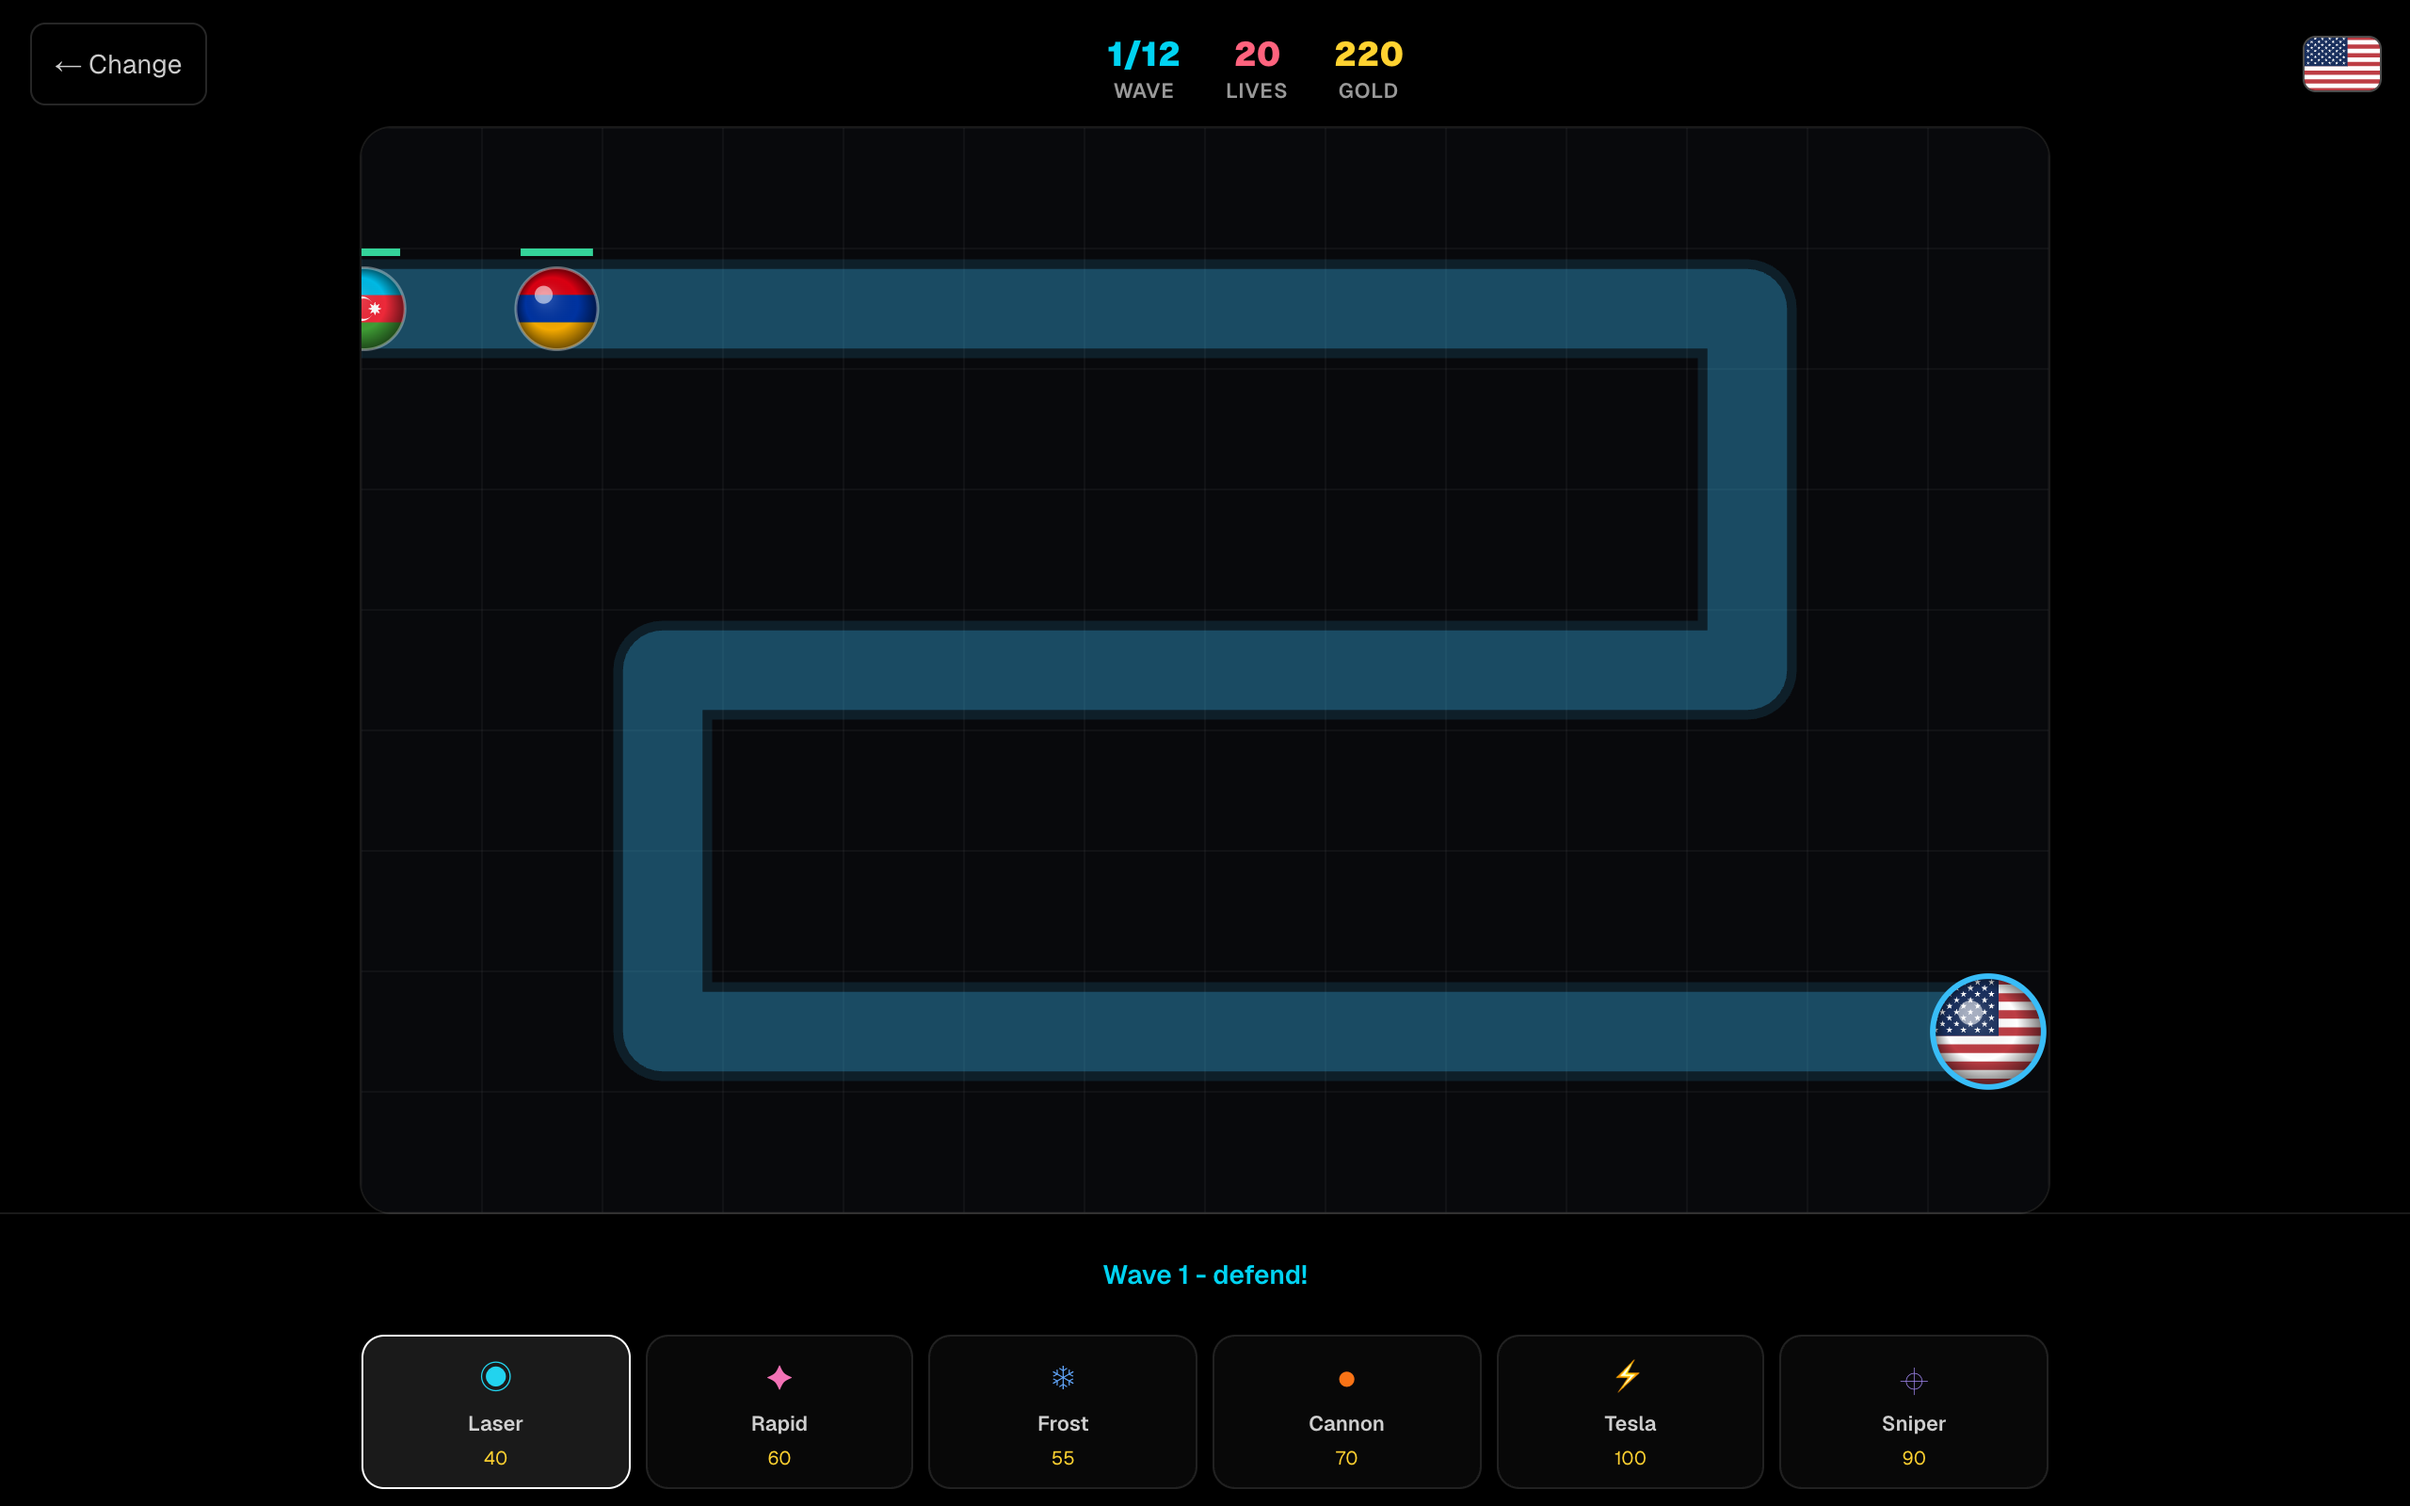
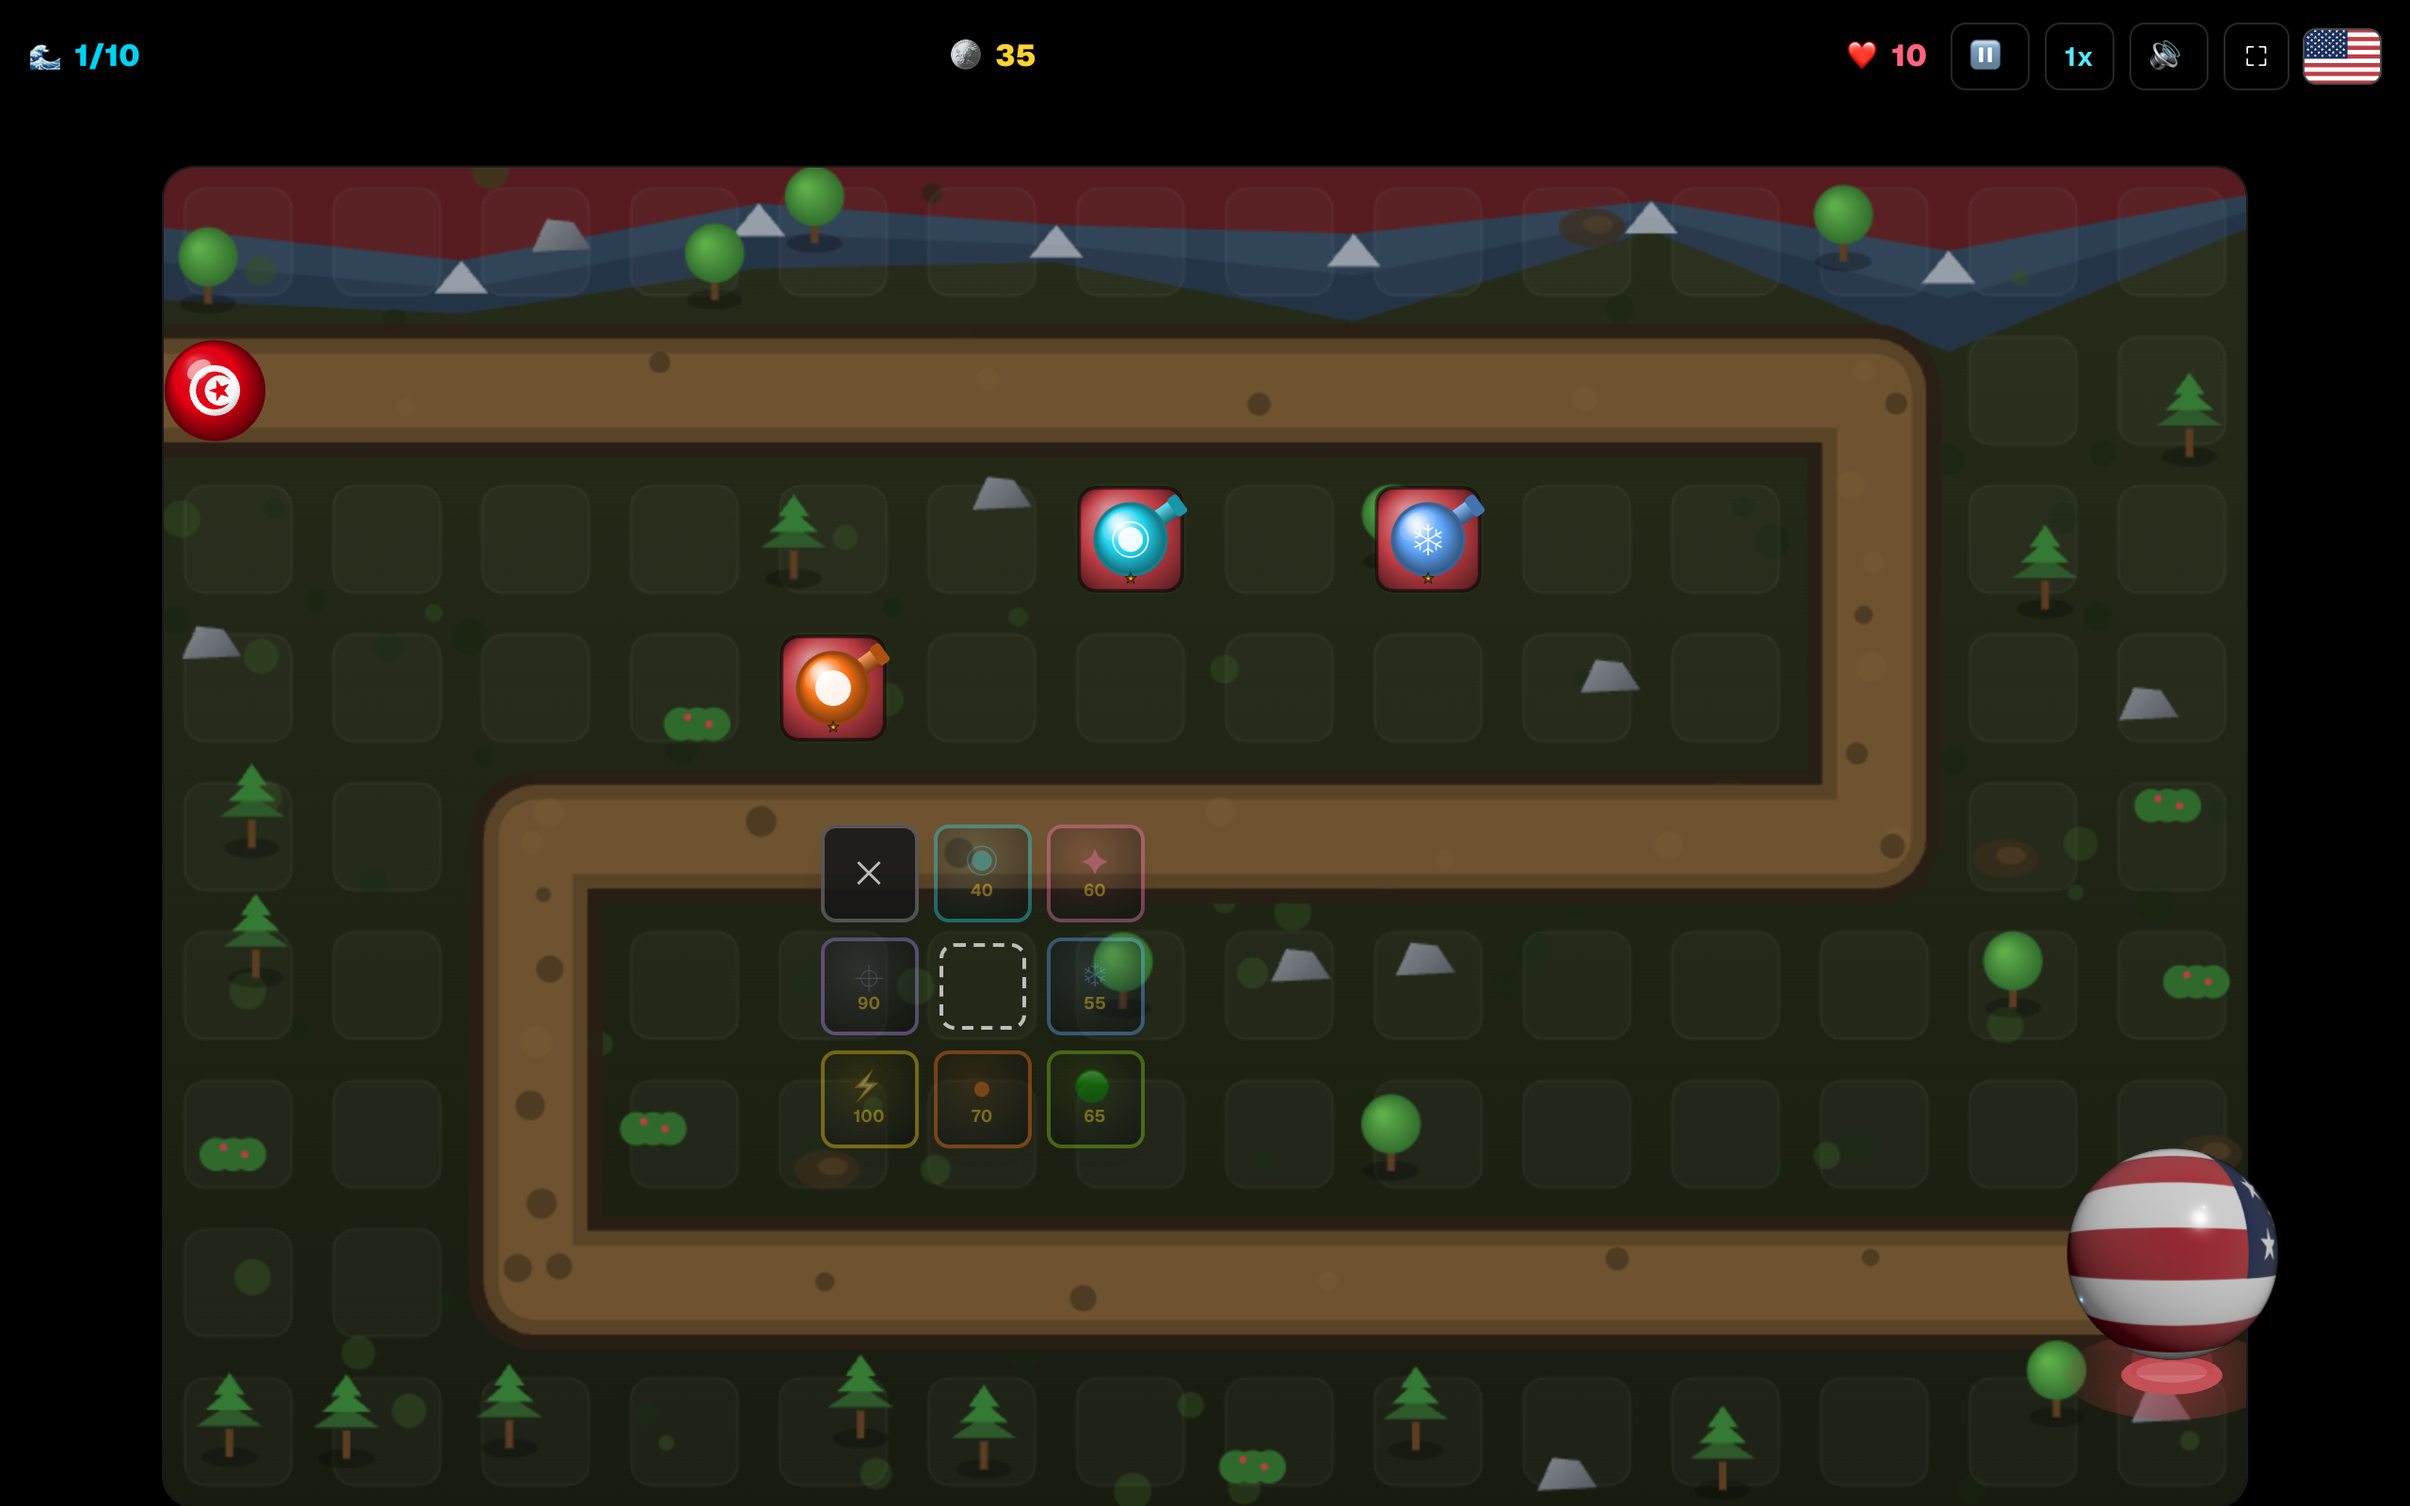
docs: refresh README + screenshots for 10 waves, 7 towers, 3D base, sound, effects

diff --git a/README.md b/README.md
@@ -1,6 +1,6 @@
 # Country Defense
 
-Pick any of the world's 194 countries as a glossy 3D flag marble, then defend it from 12 escalating waves of invaders using 6 upgradeable towers. A clean, kid-friendly tower-defense game that runs entirely in the browser.
+Pick any of the world's 194 countries as a glossy 3D flag marble, then defend it from 10 escalating waves of invaders using 7 upgradeable towers, with sound, particle effects, and a nation-themed battlefield. A clean, kid-friendly tower-defense game that runs entirely in the browser.
 
 ![Country Defense - pick your country as a glossy 3D flag marble](docs/screenshots/hero.png)
 
@@ -9,7 +9,7 @@ Pick any of the world's 194 countries as a glossy 3D flag marble, then defend it
 ![React](https://img.shields.io/badge/React-19-149eca?logo=react)
 ![TypeScript](https://img.shields.io/badge/TypeScript-strict-3178c6?logo=typescript)
 ![three.js](https://img.shields.io/badge/three.js-r185-000000?logo=three.js)
-![Tests](https://img.shields.io/badge/tests-22%20passing-3fb950)
+![Tests](https://img.shields.io/badge/tests-26%20passing-3fb950)
 
 Play it live: **https://country-defense-bheng.vercel.app**
 
@@ -28,22 +28,26 @@ Play it live: **https://country-defense-bheng.vercel.app**
 ## Features
 
 - **Pick from all 194 recognized countries**, searchable by name or continent.
-- **Glossy 3D flag marble** you can drag to spin before the match - a real WebGL sphere wrapped in your country's flag with a clearcoat sheen.
-- **12 escalating waves** of 10 invaders each; every wave the enemies gain +28% health and +7% speed, so you have to keep upgrading.
-- **6 distinct tower types**, each with its own role - Laser (fast steady beam), Rapid (machine-gun), Frost (slows enemies), Cannon (splash), Tesla (chain lightning), and Sniper (very long range).
-- **Upgrade towers to level 3** (+45% damage, +12% range per level) or sell them back for 60% of what you spent.
-- **Clean, minimal, kid-friendly UI** - solid black background, colorful glossy marbles, big touch targets, safe-area aware, and a smooth 60fps game loop.
-- **No accounts, no data, no backend** - fully static and client-side.
+- **Glossy 3D flag marble** for your home base - a real WebGL sphere wrapped in your country's flag with a clearcoat sheen, spinning and floating over a themed pedestal (and reddening, smoking, then burning as it loses lives).
+- **10 escalating waves**; every rival country invades exactly once, split evenly across the waves (~19 per wave), and each wave the enemies gain +28% health and +7% speed.
+- **7 distinct tower types** - Laser (fast beam), Rapid (machine-gun), Frost (freezes solid), Slime (sticky 5s slow), Cannon (splash), Tesla (chain lightning + shock), and Sniper (very long range) - each firing with its own projectile style.
+- **Status effects you can see** - tesla arcs an electric shock over foes, frost encases them in ice, slime coats them in green goo.
+- **Upgrade towers to level 3** (+45% damage, +14% range, +15% fire rate per level; towers grow bigger too) or sell them back for 60% of what you spent.
+- **Auto-starting waves** with a build-time countdown, plus 1x/2x/3x fast-forward and pause/resume.
+- **Zero-asset sound** - every effect (firing, impacts, a cash-register ka-ching on build, wave start, win/lose) is synthesized live with the WebAudio API.
+- **A living battlefield** - snow-capped mountains, trees, rocks, and mud, all tinted to your country's flag colors, with a smoke-and-spark particle system.
+- **Tap-a-tile build menu** - a square ring of tower choices opens around the tile you tap; the upgrade panel floats right by the tower.
+- **No accounts, no data, no backend** - fully static and client-side, at a smooth 60fps.
 
 ![Gameplay - defend your base from waves of flag-marble invaders](docs/screenshots/gameplay.png)
 
 ## Gameplay
 
 1. Search and tap a country - it appears as a spinning glossy flag marble. Tap **Defend**.
-2. Your country's marble sits at the end of an S-shaped path. Tap open tiles to build towers.
-3. Tap **Start Wave**. Invader marbles stream in along the path; your towers auto-fire.
-4. Killing invaders earns gold; clearing a wave pays a bonus. Spend it on new towers or upgrades.
-5. Each invader that reaches your base costs a life. Survive all 12 waves to win; run out of lives and it is game over. Play again instantly.
+2. Your country's marble sits at the end of an S-shaped path. Tap an open tile to open the square build menu and pick a tower.
+3. Waves auto-start after a short countdown; invader marbles stream in along the path and your towers auto-fire and track their targets.
+4. Killing invaders earns gold; clearing a wave pays a bonus. Spend it on new towers, or tap a tower to upgrade it (up to level 3).
+5. Each invader that reaches your base costs a life (you start with 10). Survive all 10 waves to win; run out of lives and it is game over. Play again instantly.
 
 ## Architecture
 
@@ -62,7 +66,10 @@ flowchart LR
         Towers[towers.ts]
         Engine[engine.ts]
         Map[map.ts]
+        Particles[particles.ts]
     end
+    Render[render.ts<br/>2D canvas]
+    Audio[audio.ts<br/>WebAudio]
     Data[(countries.ts<br/>194 countries)]
     Flags[/public/flags<br/>SVG textures/]
 
@@ -70,18 +77,21 @@ flowchart LR
     Page --> Game
     Select --> Data
     Marble --> Flags
-    Game --> Waves & Towers & Engine & Map
-    Game --> Flags
+    Game --> Waves & Towers & Engine & Map & Particles
+    Game --> Render & Audio
+    Game --> Marble
+    Render --> Flags
 ```
 
 | Layer | Role |
 |-------|------|
 | `app/page.tsx` | Two-state router: the country picker until a country is chosen, then the game |
 | `components/CountrySelect` + `FlagMarble` | Picker UI and the lazy-loaded three.js glossy marble |
-| `components/Game.tsx` | Owns the requestAnimationFrame loop, refs-as-state, and the 2D canvas renderer |
-| `lib/game/{types,map,waves,towers,engine}` | Deterministic, DOM-free simulation - path math, wave scaling, tower combat |
-| `lib/countries.ts` + `lib/flagImage.ts` | 194-country data and the cached SVG-to-texture pipeline |
-| `tests/game.test.ts` | 22 `node:test` cases over the entire simulation layer |
+| `components/Game.tsx` | Owns the requestAnimationFrame loop, refs-as-state, the HUD, and the floating 3D base marble |
+| `lib/game/{types,map,waves,towers,engine,particles}` | Deterministic, DOM-free simulation - path math, wave scaling, tower combat, particles |
+| `lib/game/render.ts` + `lib/game/audio.ts` | Browser-only 2D canvas renderer and the zero-asset WebAudio sound engine |
+| `lib/countries.ts` + `lib/flagImage.ts` | 194-country data and the cached SVG-to-texture/palette pipeline |
+| `tests/game.test.ts` | 26 `node:test` cases over the entire simulation layer |
 
 ## Tech stack
 
@@ -113,7 +123,7 @@ npm run dev        # dev server on http://localhost:3033
 npm run build      # production build
 npm run lint       # ESLint
 npm run typecheck  # tsc --noEmit (includes tests)
-npm test           # 22 node:test cases over lib/game
+npm test           # 26 node:test cases over lib/game
 ```
 
 Git hooks (via Husky) run the tests on commit and lint + typecheck on push. CI runs lint, typecheck, tests, and a production build on every push and pull request.
@@ -131,19 +141,22 @@ app/
   globals.css           Tailwind + base styles
 components/
   CountrySelect.tsx     194-country picker + search + marble preview
-  FlagMarble.tsx        three.js glossy flag sphere (drag to spin)
-  Game.tsx              rAF game loop, HUD, tower shop, 2D canvas renderer
+  FlagMarble.tsx        three.js glossy flag sphere (picker + home base)
+  Game.tsx              rAF game loop, HUD, build/upgrade menus
 lib/
   countries.ts          194 recognized countries + search helpers
-  flagImage.ts          cached SVG-to-Image/texture pipeline
+  flagImage.ts          cached SVG-to-Image/texture + flag-palette pipeline
   game/
     types.ts            shared game types (tile-unit coordinates)
     map.ts              arena grid + path geometry
-    waves.ts            wave composition and hp/speed scaling
-    towers.ts           6 tower definitions, upgrade/sell, targeting
-    engine.ts           pure per-frame step: move, fire, splash, chain, reap
+    waves.ts            wave composition (every country once) + hp/speed scaling
+    towers.ts           7 tower definitions, upgrade/sell, targeting
+    engine.ts           pure per-frame step: move, fire, splash, chain, freeze, reap
+    particles.ts        smoke + spark + ember particle system
+    render.ts           2D canvas renderer (arena, towers, effects)
+    audio.ts            zero-asset WebAudio sound engine
 public/flags/           194 self-hosted flag SVGs
-tests/game.test.ts      22 unit tests over the simulation layer
+tests/game.test.ts      26 unit tests over the simulation layer
 ```
 
 ## License
